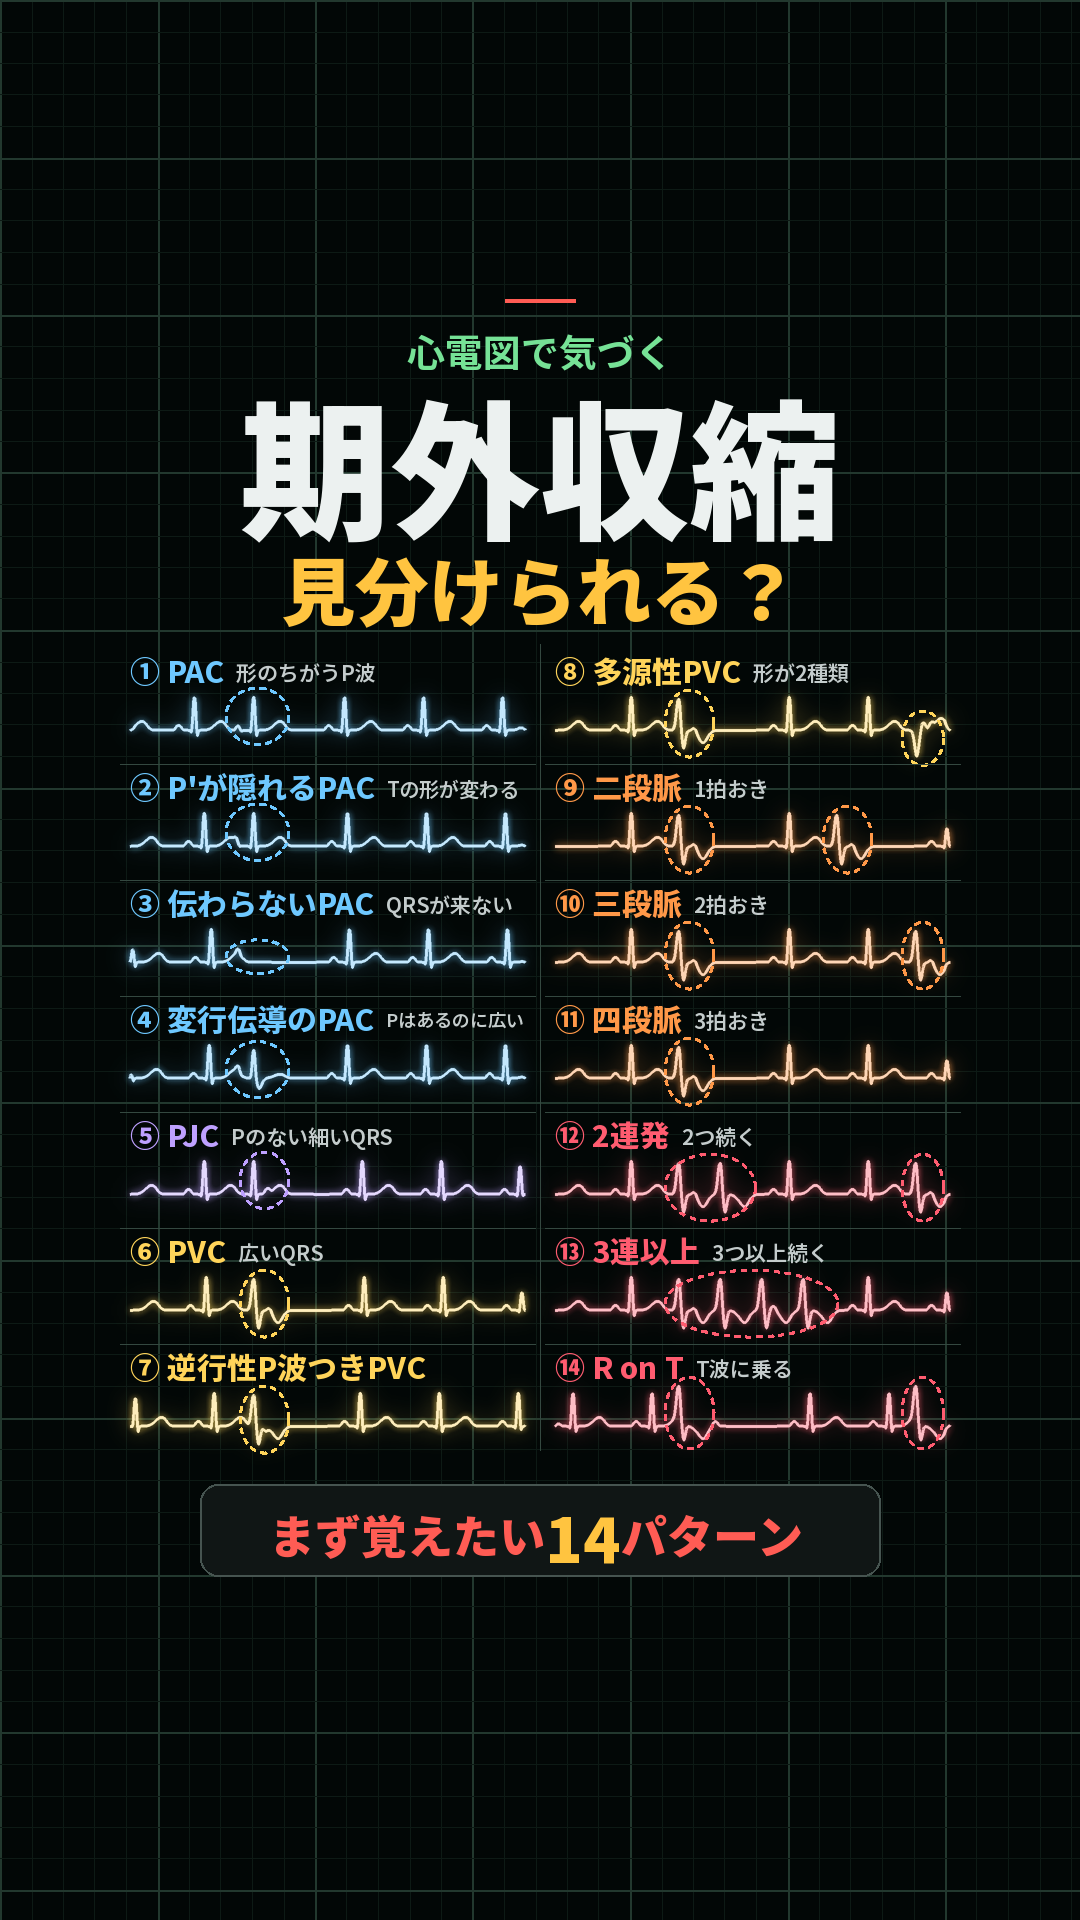
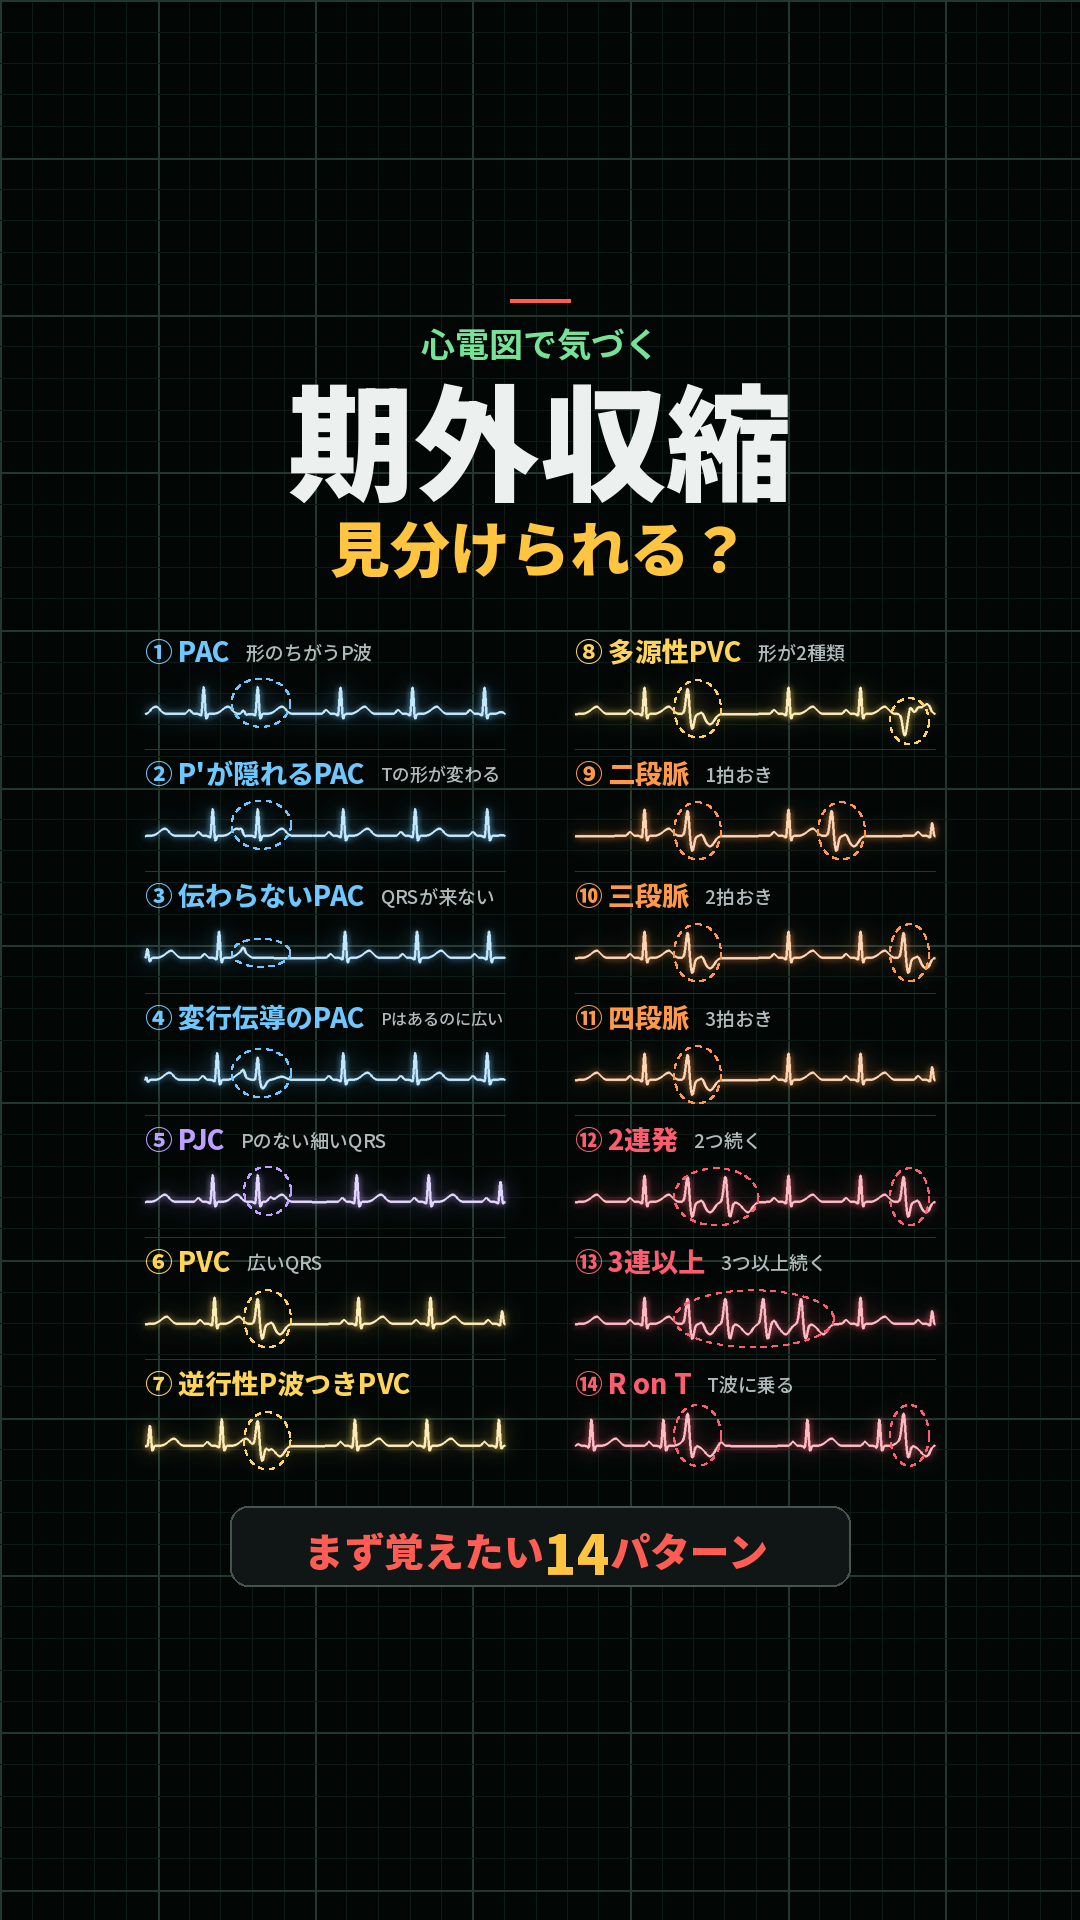
Reel #17: more whitespace in the list thumbnail
Claude-Session: https://claude.ai/code/session_01AGDPxt82MgVEZwG5ZUeEF9

Changed region(s): [[0.1222, 0.1562, 0.8861, 0.8438]]

diff --git a/reel17_ectopy/make_reel17_v2.py b/reel17_ectopy/make_reel17_v2.py
@@ -810,7 +810,7 @@ def thumb_row_wave(i, x0, x1, base_y, mv):
     pad = 40
     size = (int(x1 - x0) + 2*pad, int(3.2*mv) + 2*pad)
     ox, oy = int(x0) - pad, int(base_y - 1.7*mv) - pad
-    lay = glow_line(size, [list(zip(xs - ox, ys - oy))], pat['col'], 3.2, 1.0, blur=(4, 11))
+    lay = glow_line(size, [list(zip(xs - ox, ys - oy))], pat['col'], 2.8, 1.0, blur=(4, 10))
     # 期外収縮の拍の範囲
     ect = np.zeros(len(xs), dtype=bool)
     for r, k in bl:
@@ -831,7 +831,7 @@ def thumb_row_wave(i, x0, x1, base_y, mv):
         boxes.append((bx0 - ox, by0 - oy, bx1 - ox, by1 - oy))
     d = ImageDraw.Draw(lay)
     for b in boxes:
-        dashed_ellipse(d, b, pat['col'], dash=6, gap=5, width=3)
+        dashed_ellipse(d, b, pat['col'], dash=6, gap=5, width=2)
     return lay, (ox, oy)
 
 
@@ -843,38 +843,37 @@ def thumbnail_list():
     d = ImageDraw.Draw(im, 'RGBA')
     RED = (255, 92, 84)
     YEL = (255, 196, 64)
-    d.line([(505, 300), (575, 300)], fill=RED + (255,), width=4)
-    put(im, '心電図で気づく', 38, 700, (118, 226, 150), cx=540, cy=350)
-    put(im, '期外収縮', 150, 900, WHITE, cx=540, cy=462)
-    put(im, '見分けられる？', 74, 900, YEL, cx=540, cy=588)
-    COLS = [(130, 525), (555, 950)]
-    Y0, RH = 650, 116
+    d.line([(510, 300), (570, 300)], fill=RED + (255,), width=4)
+    put(im, '心電図で気づく', 34, 700, (118, 226, 150), cx=540, cy=342)
+    put(im, '期外収縮', 126, 900, WHITE, cx=540, cy=436)
+    put(im, '見分けられる？', 60, 900, YEL, cx=540, cy=546)
+    COLS = [(145, 505), (575, 935)]             # 列のあいだは70px あける（線は引かない）
+    Y0, RH = 628, 122
     for i, pat in enumerate(PATTERNS):
         c, r = divmod(i, 7)
         x0, x1 = COLS[c]
         y = Y0 + r*RH
         # 名前（色）＋ひとこと（灰色）
         name = f"{pat['no']} {pat['name']}"
-        im_n, _ = text_img(name, 30, 800, pat['col'], max_w=x1 - x0)
-        put(im, name, 30, 800, pat['col'], x=x0, cy=y + 20, max_w=x1 - x0)
-        nx = x0 + im_n.size[0] + 4
-        if nx + 120 < x1:
-            put(im, THUMB_DESC[i], 21, 600, (196, 204, 204), x=nx, cy=y + 22, max_w=x1 - nx)
-        lay, pos = thumb_row_wave(i, x0, x1, y + 80, 33.0)
+        im_n, _ = text_img(name, 27, 800, pat['col'], max_w=x1 - x0)
+        put(im, name, 27, 800, pat['col'], x=x0, cy=y + 22, max_w=x1 - x0)
+        nx = x0 + im_n.size[0] + 8
+        if nx + 110 < x1:
+            put(im, THUMB_DESC[i], 19, 500, (176, 186, 186), x=nx, cy=y + 24, max_w=x1 - nx)
+        lay, pos = thumb_row_wave(i, x0, x1, y + 86, 27.0)
         im.alpha_composite(lay, pos)
         if r < 6:
-            d.line([(x0 - 10, y + RH - 2), (x1 + 10, y + RH - 2)], fill=(52, 72, 64, 255), width=1)
-    d.line([(540, Y0 - 6), (540, Y0 + 7*RH - 12)], fill=(52, 72, 64, 255), width=1)
+            d.line([(x0, y + RH - 1), (x1, y + RH - 1)], fill=(38, 54, 48, 255), width=1)
     # 下の枠
-    by = Y0 + 7*RH + 22
-    d.rounded_rectangle([(200, by), (880, by + 92)], radius=18, fill=(16, 22, 21, 255),
+    by = Y0 + 7*RH + 24
+    d.rounded_rectangle([(230, by), (850, by + 80)], radius=18, fill=(16, 22, 21, 255),
                         outline=(70, 84, 80, 255), width=2)
-    parts = [('まず覚えたい', 46, RED), ('14', 62, YEL), ('パターン', 46, RED)]
+    parts = [('まず覚えたい', 40, RED), ('14', 54, YEL), ('パターン', 40, RED)]
     ims = [text_img(t, sz, 900, col) for t, sz, col in parts]
     tw = sum(a.size[0] - 8 for a, _ in ims) + 8
     x = 540 - tw/2
     for (t, sz, col), (a, _) in zip(parts, ims):
-        put(im, t, sz, 900, col, x=x, cy=by + 50 + (sz - 46)*0.12)
+        put(im, t, sz, 900, col, x=x, cy=by + 44 + (sz - 40)*0.12)
         x += a.size[0] - 8
     return im.convert('RGB')
 
